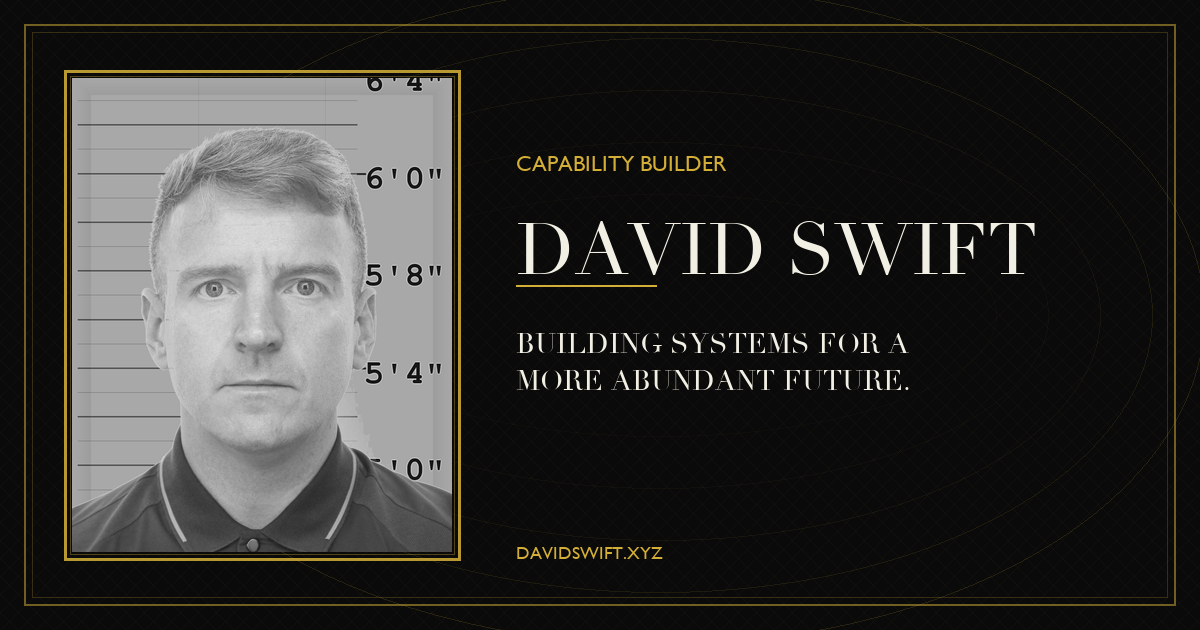
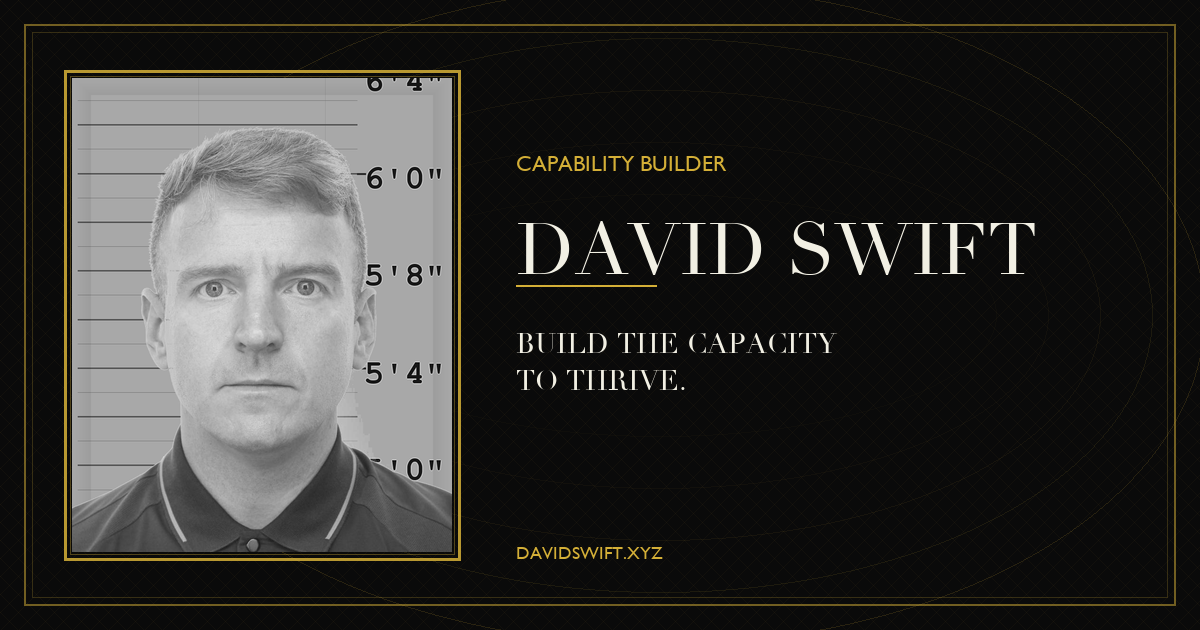
Refresh Open Graph card with capacity-to-thrive tagline.

Changed region(s): [[0.4317, 0.5127, 0.7708, 0.6333]]

diff --git a/src/app/layout.tsx b/src/app/layout.tsx
@@ -42,7 +42,7 @@ export const metadata: Metadata = {
       "Entrepreneur, farmer and technologist — building carbon-negative infrastructure and human capability for a more resilient future.",
     images: [
       {
-        url: "https://davidswift.xyz/og.png?v=mugshot1",
+        url: "https://davidswift.xyz/og.png?v=capacity1",
         width: 1200,
         height: 630,
         alt: "David Swift — Capability Builder",
@@ -54,7 +54,7 @@ export const metadata: Metadata = {
     title: "David Swift | Capability Builder",
     description:
       "Entrepreneur, farmer and technologist — building carbon-negative infrastructure and human capability for a more resilient future.",
-    images: ["https://davidswift.xyz/og.png?v=mugshot1"],
+    images: ["https://davidswift.xyz/og.png?v=capacity1"],
   },
 };
 
